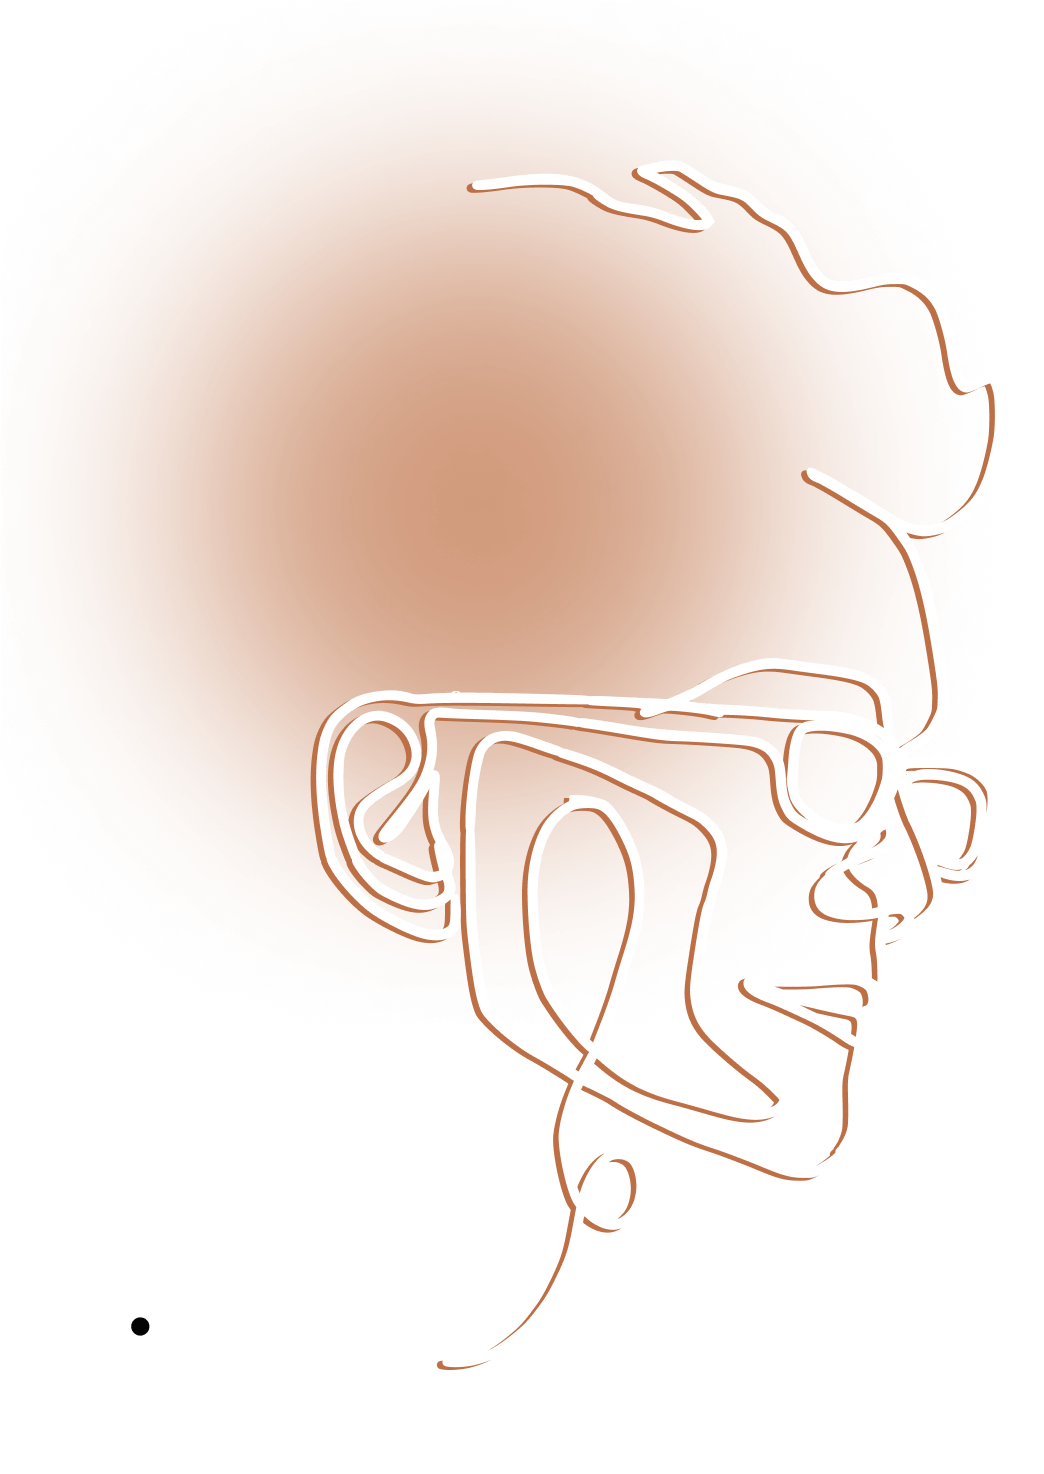
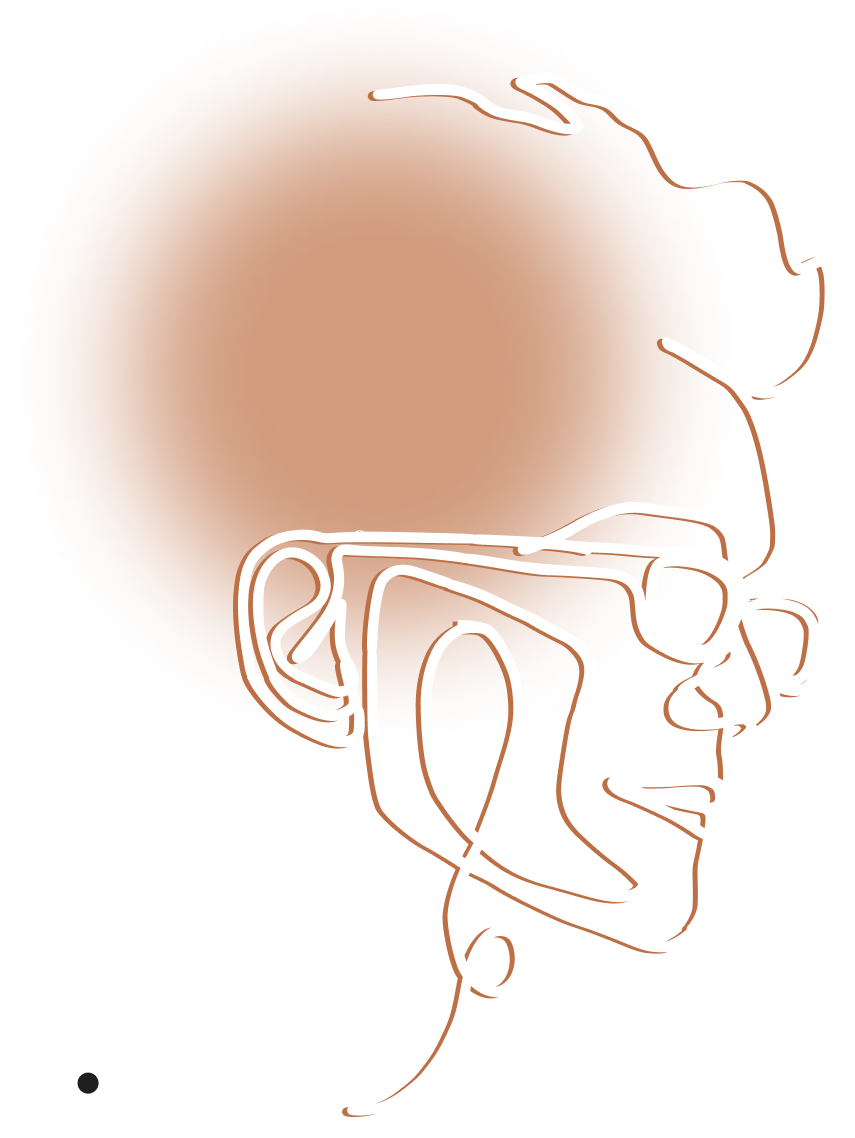
Testing

diff --git a/components/ExperienceSection.js b/components/ExperienceSection.js
@@ -18,7 +18,7 @@ const useStyles = makeStyles((theme) => ({
   },
 
   logo: {
-    marginBottom: "100px",
+    margin: "100px, 0",
   },
   stackText: {
     color: "#fff",
@@ -31,35 +31,35 @@ const useStyles = makeStyles((theme) => ({
 
 const experienceData = [
   {
-    img: "/images/experience-section/eucaps.png",
+    img: "/images/experience-section/eucaps.webp",
     title: "Front-End Engineer",
-    since: "July 2021 - Present",
+    since: "June 2021 - Present",
     width: 230,
-    height: 70,
+    height: 65,
   },
   {
-    img: "/images/experience-section/netcoden.png",
+    img: "/images/experience-section/netcoden.webp",
     title: "Intern at Tect Department",
     since: "September 2020 - November 2020",
-    width: 220,
-    height: 90,
+    width: 190,
+    height: 80,
   },
   {
-    img: "/images/experience-section/ipa.png",
+    img: "/images/experience-section/ipa.webp",
     title: "Research Collaborator",
     since: "August 2018",
-    width: 240,
-    height: 90,
+    width: 210,
+    height: 75,
   },
   {
-    img: "/images/experience-section/lict.png",
+    img: "/images/experience-section/lict.webp",
     title: "Top-Up IT Training",
     since: "Credential ID: G046245",
     width: 230,
     height: 90,
   },
   {
-    img: "/images/experience-section/ict.png",
+    img: "/images/experience-section/ict.webp",
     title: "Idea Workshop for Mobile Apps Development",
     since: "Issued May 2017",
     width: 250,
@@ -111,17 +111,19 @@ const ExperienceSection = () => {
                 data-aos="zoom-in"
                 data-aos-duration="2500"
                 sx={{
+                  padding: "20px 0",
                   minWidth: "200px",
                   display: "flex",
                   flexDirection: "column",
                   alignItems: "center",
+                  justifyContent: "space-around",
                   flex: "0 0 33.333333333%",
                   border: "2px solid #BD7045",
                 }}
               >
                 <Box
                   sx={{
-                    height: "160px",
+                    // height: "100px",
                     display: "flex",
                     alignItems: "center",
                   }}
@@ -156,19 +158,15 @@ const ExperienceSection = () => {
                   display="flex"
                   flexDirection="column"
                   alignItems="center"
-                  sx={{ color: "#fff", marginBottom: "20px" }}
+                  sx={{ color: "#fff", marginTop: "20px" }}
                 >
-                  <Typography
-                    textAlign="center"
-                    variant="body1"
-                    sx={{ color: "#fff" }}
-                  >
+                  <Typography textAlign="center" variant="body1">
                     {item.title}
                   </Typography>
                   <Typography
                     textAlign="center"
                     variant="body2"
-                    sx={{ color: "#fff" }}
+                    sx={{ fontStyle: "italic" }}
                   >
                     {item.since}
                   </Typography>

diff --git a/components/FirstSection.js b/components/FirstSection.js
@@ -6,7 +6,7 @@ import useMediaQuery from "@mui/material/useMediaQuery";
 import imageLoader from "../helper/imageLoader";
 import AOS from "aos";
 import "aos/dist/aos.css";
-import avatar from "../public/images/landing-section/avatar.webp";
+import avatar from "../public/images/landing-section/avatar2.webp";
 
 const useStyles = makeStyles((theme) => ({
   text: {
@@ -86,8 +86,8 @@ const FirstSection = () => {
           eager="true"
           loader={imageLoader}
           src={avatar}
-          width={sm ? "295" : "590"}
-          height={sm ? "410" : "800"}
+          width={sm ? "295" : "600"}
+          height={sm ? "410" : "760"}
           // placeholder="blur"
           // layout="intrinsic"
         />

diff --git a/styles/globals.css b/styles/globals.css
@@ -96,3 +96,36 @@ a {
     transform: scale(1);
   }
 }
+
+.bg {
+  animation: slide 3s ease-in-out infinite alternate;
+  background-image: linear-gradient(
+    -60deg,
+    rgb(12, 12, 12) 50%,
+    rgb(20, 20, 20) 50%
+  );
+  bottom: 0;
+  left: -50%;
+  opacity: 0.5;
+  position: fixed;
+  right: -50%;
+  top: 0;
+  z-index: -1;
+}
+
+.bg2 {
+  animation-direction: alternate-reverse;
+  animation-duration: 5s;
+}
+
+.bg3 {
+  animation-duration: 8s;
+}
+@keyframes slide {
+  0% {
+    transform: translateX(-25%);
+  }
+  100% {
+    transform: translateX(25%);
+  }
+}

diff --git a/components/Shared/Nav.js b/components/Shared/Nav.js
@@ -35,7 +35,7 @@ const useStyles = makeStyles((theme) => ({
     cursor: "pointer",
   },
   links: {
-    width: "670px",
+    width: "720px",
     display: "flex",
     flexDirection: "row",
     justifyContent: "space-around",
@@ -55,6 +55,9 @@ const useStyles = makeStyles((theme) => ({
     fontSize: "16px",
     padding: "1",
     textTransform: "none",
+    "&:hover": {
+      color: "#BD7045",
+    },
     [theme.breakpoints.down("md")]: {
       // fontSize: "2rem",
     },

diff --git a/pages/_app.js b/pages/_app.js
@@ -59,7 +59,12 @@ function MyApp(props) {
             <LoadingPulse />
           </Box>
         ) : (
-          <Component {...pageProps} />
+          <>
+            <div className="bg"></div>
+            <div className="bg bg2"></div>
+            <div className="bg bg3"></div>
+            <Component {...pageProps} />
+          </>
         )}
       </ThemeProvider>
     </CacheProvider>

diff --git a/components/AboutSection.js b/components/AboutSection.js
@@ -124,6 +124,11 @@ const AboutSection = () => {
       source: "./images/about-section/wordpress.webp",
       title: "Wordpress",
     },
+    {
+      id: 16,
+      source: "./images/about-section/cypress.webp",
+      title: "Cypress",
+    },
   ];
 
   useEffect(() => {
